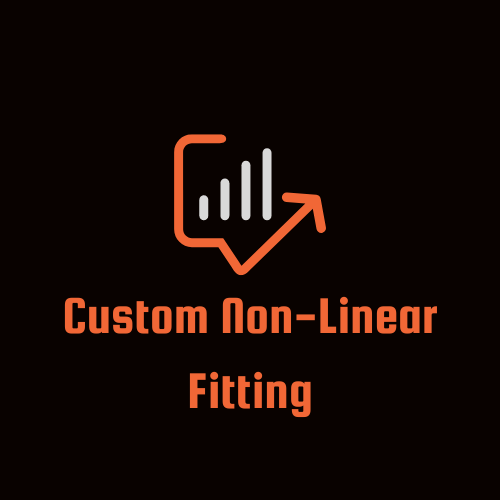
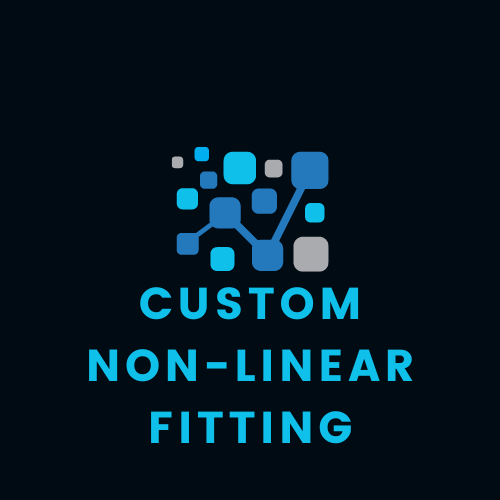
Adding portfolio images

Changed region(s): [[0.12, 0.27, 0.87, 0.9]]

diff --git a/src/content_option.js b/src/content_option.js
@@ -92,22 +92,22 @@ const dataportfolio = [{
         link: "https://github.com/g-nitin/convolutional-autoencoder",
     },
     {
-        img: "https://picsum.photos/400/?grayscale",
+        img: "https://raw.githubusercontent.com/g-nitin/portfolio/master/src/assets/images/OTB.png",
         description: "Machine Learning & Text mining to discover Jim Crow and racially-based laws.",
         link: "https://github.com/g-nitin/OnTheBooksUofSC",
     },
     {
-        img: "https://picsum.photos/400/600/?grayscale",
+        img: "https://raw.githubusercontent.com/g-nitin/portfolio/master/src/assets/images/vis_lib.png",
         description: "Interactive, web-based documents and tools for data visualizations at the USC Libraries.",
         link: "https://github.com/g-nitin/Library-Data-Visualization",
     },
     {
-        img: "https://picsum.photos/400/300/?grayscale",
+        img: "https://raw.githubusercontent.com/g-nitin/portfolio/master/src/assets/images/camp.png",
         description: "A camp-system CLI.",
         link: "https://github.com/RebeccaCun/camp-system",
     },
     {
-        img: "https://picsum.photos/400/700/?grayscale",
+        img: "https://raw.githubusercontent.com/g-nitin/portfolio/master/src/assets/images/non_linear.png",
         description: "Exploring custom non-linear least squares fitting alongside comparisons to established libraries.",
         link: "https://github.com/g-nitin/Non-Linear-Least-Sq",
     },
